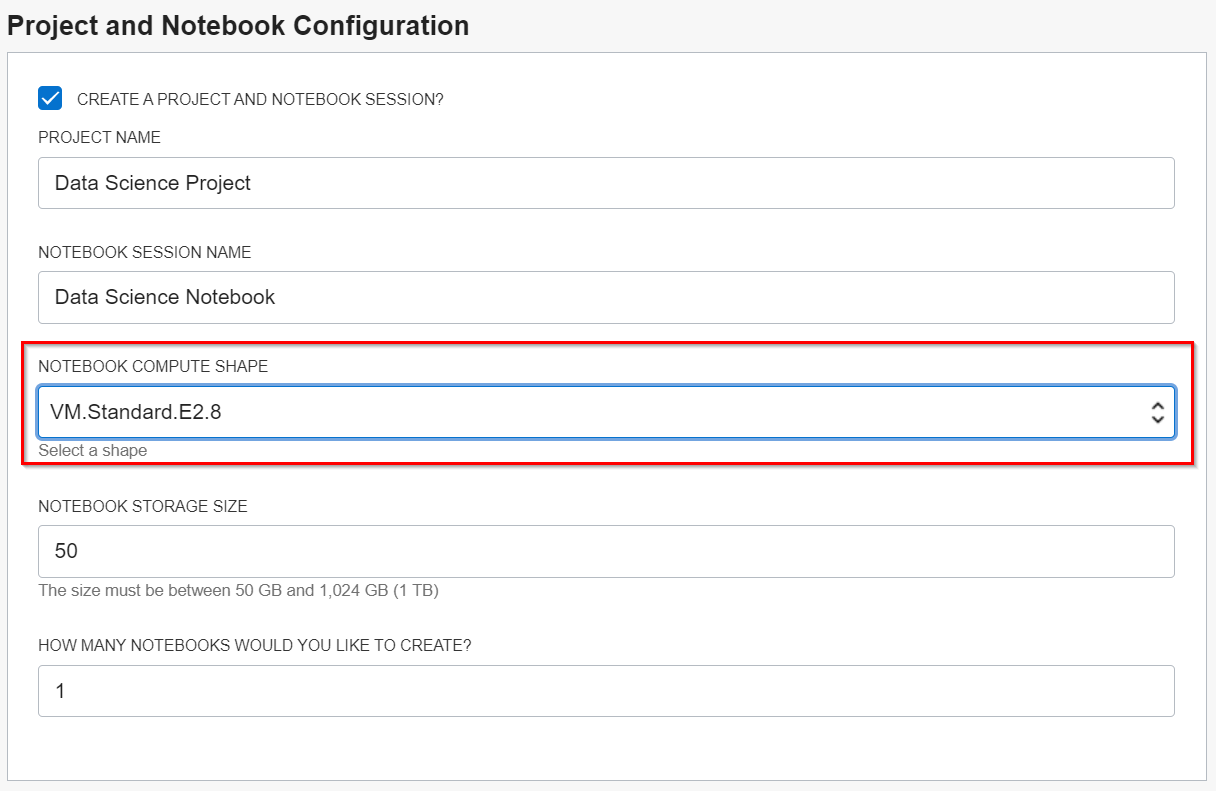
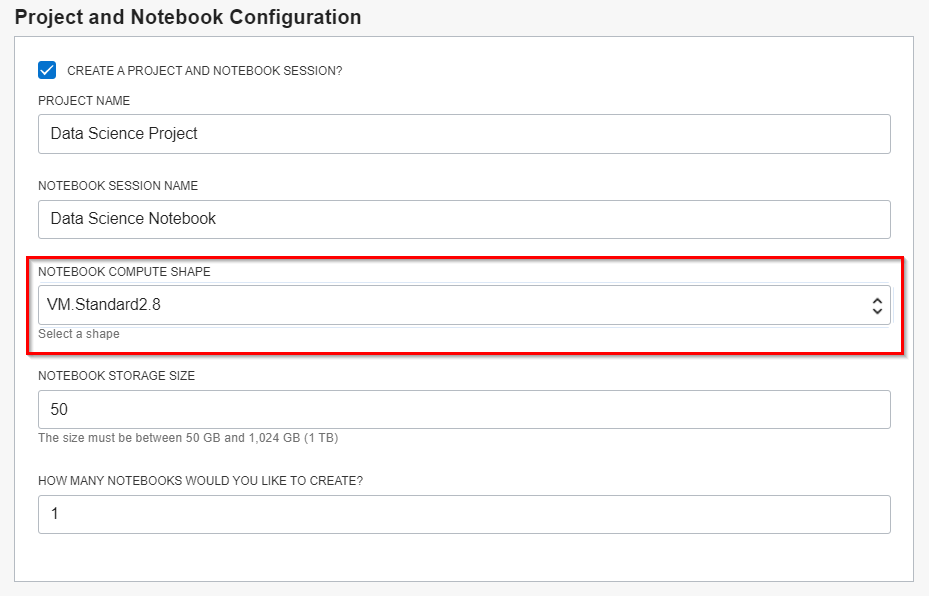
Updated prereq ds

diff --git a/DataScience/prereq2/lab.md b/DataScience/prereq2/lab.md
@@ -53,7 +53,7 @@ This is the recommend approach in case you are working in an Oracle Cloud tenanc
 ![](./images/newimage4.png)
 
 - Check "Create a Project and Notebook Session".
-- We recommend you choose VM.Standard.E2.8 as the shape. 
+- We recommend you choose VM.Standard2.8 (not VM.Standard.E2.8) as the shape. This is a high performance shape, which will be especially useful when we run AutoML later on.
 
 ![](./images/newimage5.png)
 
